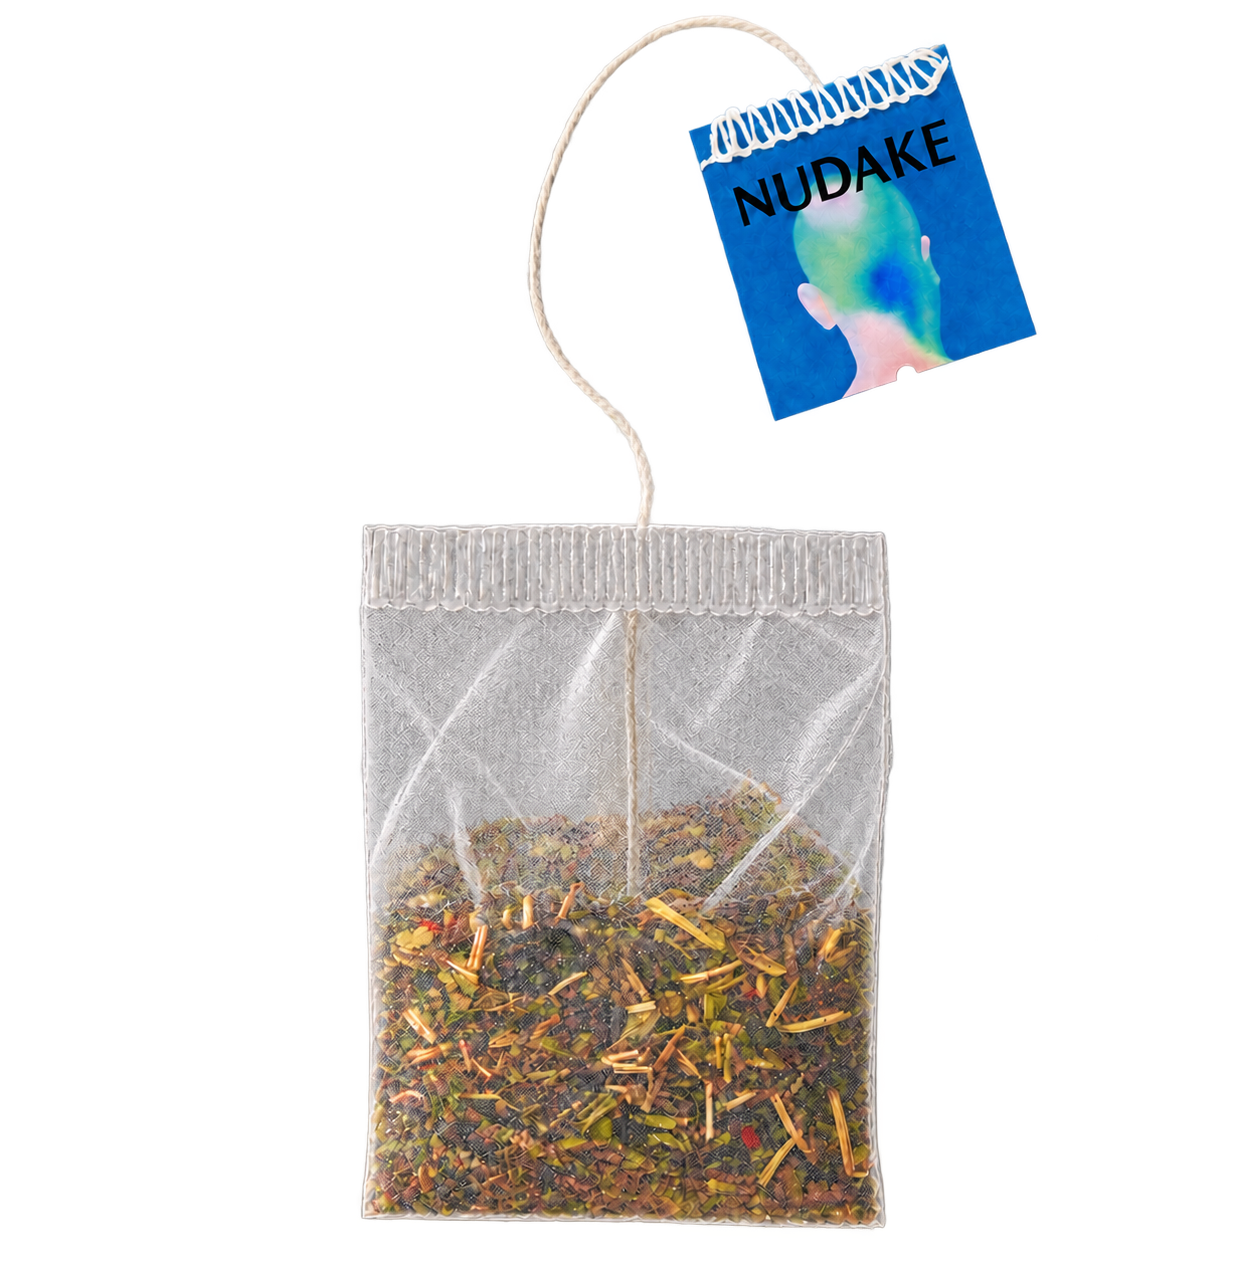
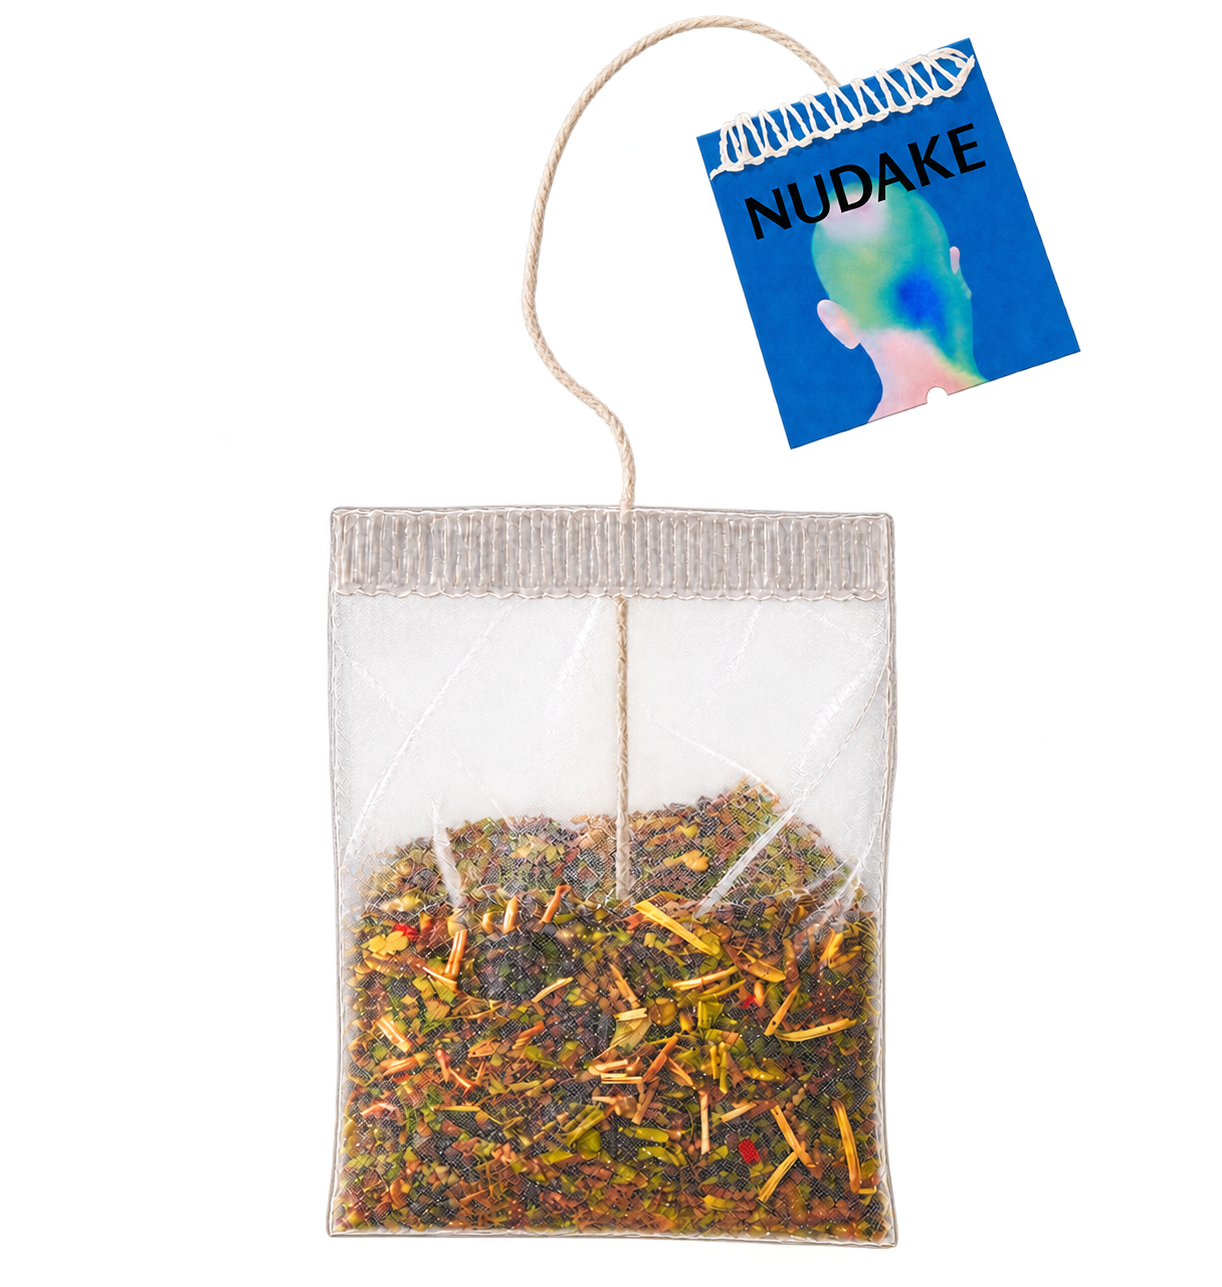
누데이크 카드 앞면도 만들어 넣고, 티백 교체·손글씨 교체
- 카드 앞면을 그림 한 장 대신 뒷면과 같은 종이 위에 로고·블루몽크 그림·품명으로 짜서
  두 면이 같은 카드로 읽히게 했습니다.
- 앞면 겹이 잔까지 덮던 것을 카드 안으로 가둬(isolation) 잔이 앞에 서게 고침
- 티백을 누데이크 티백5 로 바꾸고 주머니를 1.1배로
- 손글씨를 Sacramento 로. 획이 고르고 흘려 쓴 결이라 펜으로 적은 것에 가깝습니다.
  Brittany Signature 는 여전히 스택 맨 앞이라 파일이 들어오면 그대로 바뀝니다.

diff --git a/src/app/globals.css b/src/app/globals.css
@@ -2,7 +2,7 @@
 
 /* 손글씨용 Brittany Signature.
    맥에 설치되어 있으면 local() 로 바로 잡히고, 없으면 public/fonts 의 파일을 씁니다.
-   둘 다 없으면 --font-hand 의 다음 후보(Parisienne)로 넘어갑니다. */
+   둘 다 없으면 --font-hand 의 다음 후보(Sacramento)로 넘어갑니다. */
 @font-face {
   font-family: "Brittany Signature";
   src:
@@ -18,7 +18,7 @@
   --font-display: var(--font-inter), ui-sans-serif, system-ui, sans-serif;
   --font-body:
     "SUIT Variable", var(--font-inter), ui-sans-serif, system-ui, sans-serif;
-  /* next/font 가 --font-script 에 Parisienne 을 실어 줍니다. */
+  /* next/font 가 --font-script 에 Sacramento 를 실어 줍니다. */
   --font-hand:
     "Brittany Signature", var(--font-script), "Snell Roundhand", cursive;
 }
@@ -537,6 +537,8 @@
     justify-content: space-between;
     border-radius: calc(2 * var(--u));
     padding: calc(14 * var(--u)) calc(20 * var(--u)) calc(36 * var(--u));
+    /* 앞면 겹의 z-index 가 잔까지 넘어가지 않도록 쌓임을 카드 안에 가둡니다. */
+    isolation: isolate;
     /* 사진 속 카드를 그대로 덮으므로 그림자는 사진의 것을 씁니다.
        종이 결도 사진에 이미 있어, 여기서는 색만 맞춥니다. */
     background:
@@ -548,11 +550,69 @@
       #f7f6f2;
   }
 
-  /* 처음에 덮여 있는 제품 카드. 천천히 물러나며 감사 카드가 드러납니다. */
+  /* 처음에 덮여 있는 제품 카드. 천천히 물러나며 감사 카드가 드러납니다.
+     뒷면과 같은 종이 위에 로고·그림·품명을 얹어 만듭니다. */
   .nud-card-front {
     position: absolute;
     inset: 0;
     z-index: 2;
+    display: flex;
+    flex-direction: column;
+    align-items: center;
+    background: inherit;
+    padding: calc(14 * var(--u)) calc(18 * var(--u)) calc(12 * var(--u));
+  }
+
+  .nud-front-logo {
+    position: relative;
+    display: block;
+    width: calc(46 * var(--u));
+    height: calc(38 * var(--u));
+  }
+
+  /* 가운데 그림. 카드 폭을 꽉 채웁니다. */
+  .nud-front-art {
+    position: relative;
+    display: block;
+    width: 100%;
+    height: calc(252 * var(--u));
+    margin-top: calc(10 * var(--u));
+  }
+
+  /* 품명과 종류. 그림 아래 양 끝으로 벌립니다. */
+  .nud-front-foot {
+    display: flex;
+    width: 100%;
+    align-items: baseline;
+    justify-content: space-between;
+    margin-top: calc(14 * var(--u));
+    color: rgb(25 25 25 / 0.85);
+    font-family: var(--font-display);
+    font-size: calc(11 * var(--u));
+    font-weight: 600;
+    letter-spacing: 0.04em;
+    text-transform: uppercase;
+  }
+
+  .nud-front-foot em:last-child {
+    color: rgb(25 25 25 / 0.5);
+    font-size: calc(8 * var(--u));
+    letter-spacing: 0.16em;
+  }
+
+  .nud-front-foot em {
+    font-style: normal;
+  }
+
+  .nud-front-mark {
+    margin-top: auto;
+    color: rgb(25 25 25 / 0.38);
+    font-family: var(--font-display);
+    font-size: calc(6 * var(--u));
+    font-weight: 600;
+    letter-spacing: 0.24em;
+    text-indent: 0.24em;
+    text-transform: uppercase;
   }
 
   [data-visible] .nud-card-front {

diff --git a/src/components/18-SceneNudakeCover.tsx b/src/components/18-SceneNudakeCover.tsx
@@ -35,9 +35,10 @@ const CARD = { left: 272, top: 212, width: 268, height: 381 };
 const HAND = ["Thank", "you !"];
 
 /* 잔에 담기는 티백 한 장(끈과 라벨이 함께 그려져 있습니다).
-   원본 1239×1270 판에서 주머니가 가로 26.6~74.3%, 세로 36.1~88.7% 자리라,
-   주머니가 잔 안쪽 물(가로 120~376, 물 위 440)에 들어가도록 판을 잡았습니다. */
-const TEA = { left: 133, top: 370, width: 220, height: 226 };
+   원본 1222×1287 판에서 주머니가 가로 21.2~74.2%, 세로 37.0~93.9% 자리라,
+   주머니가 잔 안쪽 물(가로 120~376, 물 위 440)에 들어가도록 판을 잡았습니다.
+   주머니 폭 105 → 115.5 로 1.1배 키운 값입니다. */
+const TEA = { left: 134, top: 365, width: 218, height: 230 };
 
 const BREW = { left: 126, top: 440, width: 212, height: 182 };
 
@@ -70,15 +71,35 @@ export function SceneNudakeCover() {
         {/* 사진 속 카드 자리를 그대로 덮는 우리 카드.
             위에 로고, 가운데 손글씨, 아래 날짜입니다. */}
         <div className="nud-card absolute" style={put(CARD)}>
-          {/* 처음에는 제품 카드가 서 있다가, 서서히 감사 카드로 바뀝니다. */}
+          {/* 처음에는 제품 카드가 서 있다가, 서서히 감사 카드로 바뀝니다.
+              앞면도 같은 종이 위에 로고·그림·품명을 얹어 만듭니다. */}
           <span className="nud-card-front" aria-hidden>
-            <Image
-              src="/images/nudake-card-front.png"
-              alt=""
-              fill
-              sizes="20vw"
-              className="object-cover"
-            />
+            <span className="nud-front-logo">
+              <Image
+                src="/images/nudake-card-logo.png"
+                alt=""
+                fill
+                sizes="10vw"
+                className="object-contain"
+              />
+            </span>
+
+            <span className="nud-front-art">
+              <Image
+                src="/images/nudake-bluemonk.png"
+                alt=""
+                fill
+                sizes="20vw"
+                className="object-cover"
+              />
+            </span>
+
+            <span className="nud-front-foot">
+              <em>Blue Monk</em>
+              <em>Tea</em>
+            </span>
+
+            <span className="nud-front-mark">nudake.com</span>
           </span>
 
           <span className="nud-card-logo">

diff --git a/src/app/layout.tsx b/src/app/layout.tsx
@@ -1,5 +1,5 @@
 import type { Metadata } from "next";
-import { Inter, Parisienne } from "next/font/google";
+import { Inter, Sacramento } from "next/font/google";
 import { GridOverlay } from "@/components/GridOverlay";
 import "./globals.css";
 
@@ -8,8 +8,9 @@ const inter = Inter({
   subsets: ["latin"],
 });
 
-/* 누데이크 카드에 손으로 쓴 것처럼 들어가는 글씨 */
-const parisienne = Parisienne({
+/* 누데이크 카드에 손으로 쓴 것처럼 들어가는 글씨.
+   획 굵기가 고르고 흘려 쓴 결이라 펜으로 적은 것에 가깝습니다. */
+const script = Sacramento({
   variable: "--font-script",
   weight: "400",
   subsets: ["latin"],
@@ -25,7 +26,7 @@ export default function RootLayout({ children }: LayoutProps<"/">) {
   return (
     <html
       lang="ko"
-      className={`${inter.variable} ${parisienne.variable} antialiased`}
+      className={`${inter.variable} ${script.variable} antialiased`}
     >
       <head>
         {/* SUIT Variable 은 Google Fonts에 없어 CDN에서 불러옵니다.
